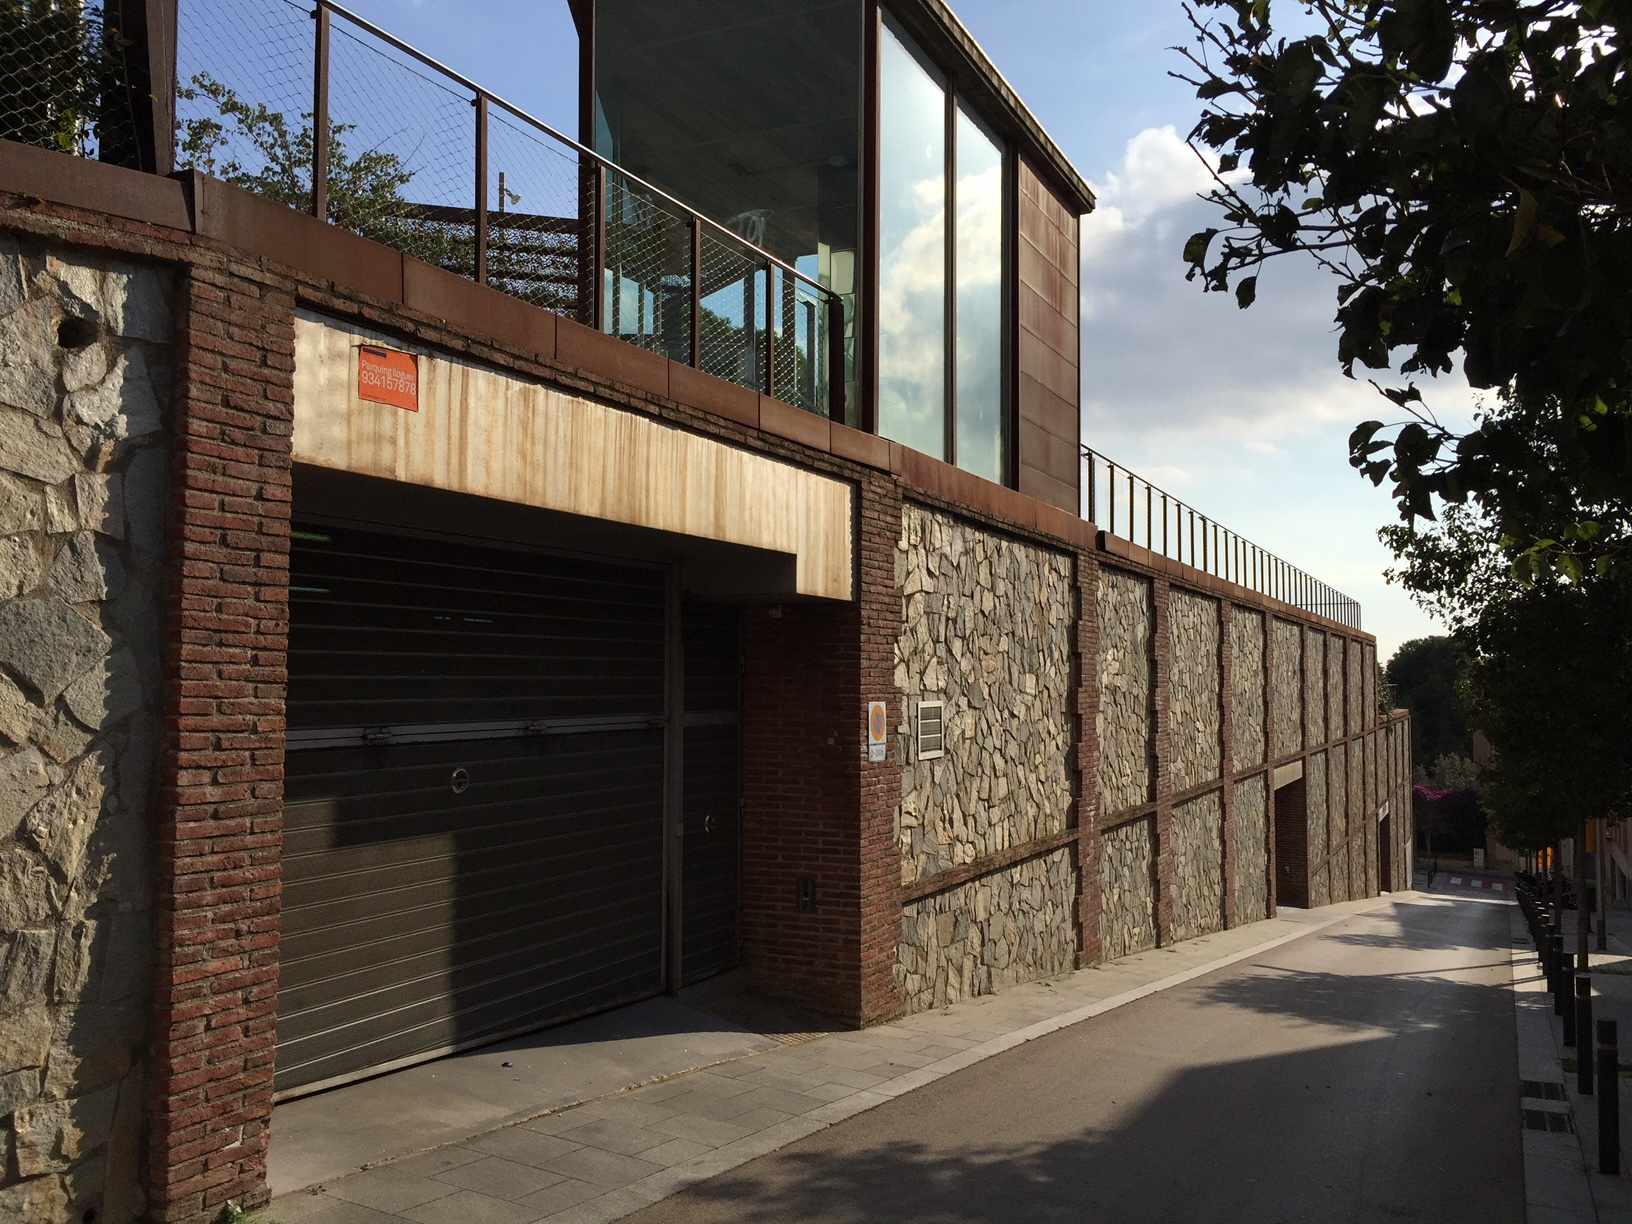
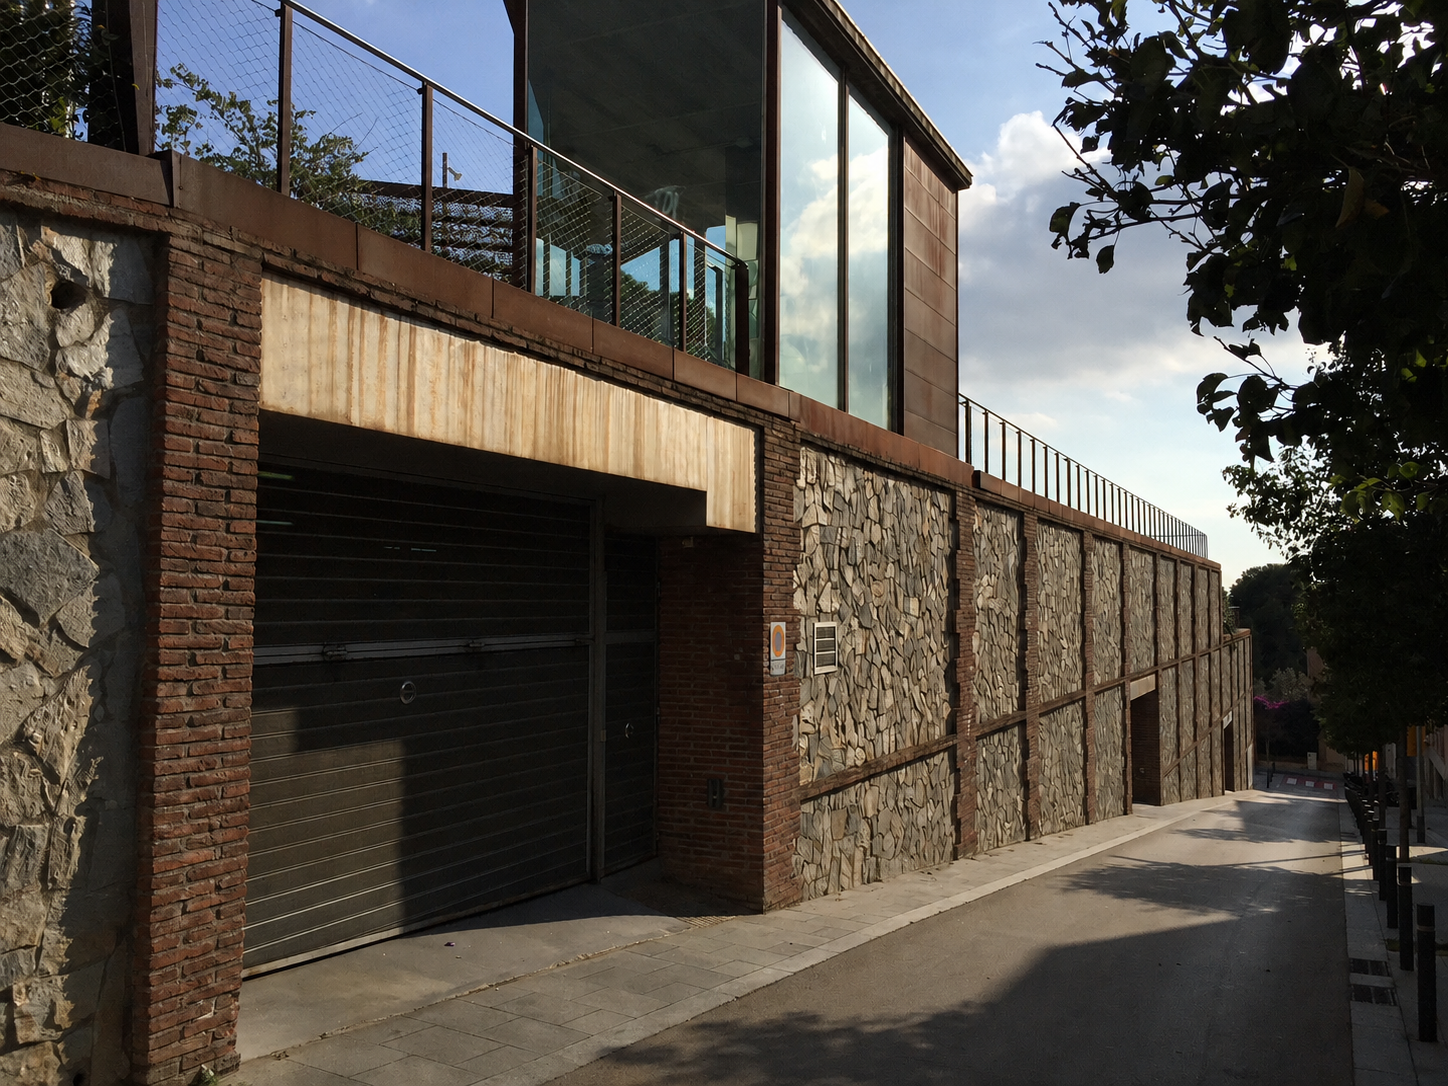
dubtes jose

diff --git a/watchhouse-clone/conceptes/index.html b/watchhouse-clone/conceptes/index.html
@@ -78,7 +78,7 @@
                 </div>
                 <div class="product-guide-step__media">
                   <img
-                    src="../imgs/Enviament 1 2026-05-09/Enviament 1 2025-05-09/CREA Web RESIDENCIAL/2003. Casa LA SELVA/SC Foto web 09.png"
+                    src="../imgs/conceptes_imgs/reutilitzar/2003. Casa LA SELVA/SC Foto web 09.png"
                     loading="eager"
                     class="product-guide-step__image"
                     alt="Casa LA SELVA terrassa">
@@ -89,7 +89,7 @@
               <div class="product-guide-step product-guide-step--image-only">
                 <div class="product-guide-step__media">
                   <img
-                    src="../imgs/Enviament 1 2026-05-09/Enviament 1 2025-05-09/CREA Web RESIDENCIAL/2003. Casa LA SELVA/contrapicat_casa_selva.png"
+                    src="../imgs/conceptes_imgs/reutilitzar/2003. Casa LA SELVA/SC Foto web 03.avif"
                     loading="lazy"
                     class="product-guide-step__image"
                     alt="Casa LA SELVA detall">
@@ -220,10 +220,10 @@
                 </div>
                 <div class="product-guide-step__media">
                   <img
-                    src="../imgs/Enviament 1 2026-05-09/Enviament 1 2025-05-09/CREA Web RESIDENCIAL/2003. Casa VALLDOREIX/step4_interior_valldoreix_1.png"
+                    src="../imgs/conceptes_imgs/rehabilitar/2003. Casa VALLDOREIX/Valldoreix foto 6_JPG.avif"
                     loading="lazy" class="product-guide-step__image" alt="Interior Valldoreix, balcó">
                   <img
-                    src="../imgs/Enviament 1 2026-05-09/Enviament 1 2025-05-09/CREA Web RESIDENCIAL/2003. Casa VALLDOREIX/step4_interior_valldoreix_2.png"
+                    src="../imgs/conceptes_imgs/rehabilitar/2003. Casa VALLDOREIX/Valldoreix foto 7_JPG.avif"
                     loading="lazy" class="product-guide-step__image" alt="Interior Valldoreix, escala i coberta">
                 </div>
               </div>
@@ -233,10 +233,10 @@
                    style="--sum-ratio: 1.6; --img-h: 52vh;">
                 <div class="product-guide-step__media">
                   <img
-                    src="../imgs/Enviament 1 2026-05-09/Enviament 1 2025-05-09/CREA Web RESIDENCIAL/2003. Casa VALLDOREIX/torre_despres.png"
+                    src="../imgs/conceptes_imgs/rehabilitar/2003. Casa VALLDOREIX/torre_despres.png"
                     loading="lazy" class="product-guide-step__image" alt="Torre després de la reforma">
                   <img
-                    src="../imgs/Enviament 1 2026-05-09/Enviament 1 2025-05-09/CREA Web RESIDENCIAL/2003. Casa VALLDOREIX/torre abans.png"
+                    src="../imgs/conceptes_imgs/rehabilitar/2003. Casa VALLDOREIX/torre abans.png"
                     loading="lazy" class="product-guide-step__image" alt="Torre abans de la reforma">
                 </div>
               </div>
@@ -251,10 +251,10 @@
                 </div>
                 <div class="product-guide-step__media">
                   <img
-                    src="../imgs/Enviament 1 2026-05-09/Enviament 1 2025-05-09/CREA Web RESIDENCIAL/2003. Casa VALLDOREIX/fachada_despres.png"
+                    src="../imgs/conceptes_imgs/rehabilitar/2003. Casa VALLDOREIX/fachada_despres.png"
                     loading="lazy" class="product-guide-step__image" alt="Façana després de la reforma">
                   <img
-                    src="../imgs/Enviament 1 2026-05-09/Enviament 1 2025-05-09/CREA Web RESIDENCIAL/2003. Casa VALLDOREIX/fachada_abans.png"
+                    src="../imgs/conceptes_imgs/rehabilitar/2003. Casa VALLDOREIX/fachada_abans.png"
                     loading="lazy" class="product-guide-step__image" alt="Façana abans de la reforma">
                 </div>
               </div>
@@ -270,10 +270,10 @@
                 </div>
                 <div class="product-guide-step__media">
                   <img
-                    src="../imgs/Enviament 1 2026-05-09/Enviament 1 2025-05-09/CREA Web RESIDENCIAL/2003. Casa VALLDOREIX/front_valldoreix.png"
+                    src="../imgs/conceptes_imgs/rehabilitar/2003. Casa VALLDOREIX/front_valldoreix.png"
                     loading="eager" class="product-guide-step__image" alt="Casa Valldoreix façana frontal">
                   <img
-                    src="../imgs/Enviament 1 2026-05-09/Enviament 1 2025-05-09/CREA Web RESIDENCIAL/2003. Casa VALLDOREIX/inside_peak_valldoreix.png"
+                    src="../imgs/conceptes_imgs/rehabilitar/2003. Casa VALLDOREIX/inside_peak_valldoreix.png"
                     loading="eager" class="product-guide-step__image" alt="Casa Valldoreix interior, doble espai">
                 </div>
               </div>
@@ -292,7 +292,7 @@
                 </div>
                    <div class="product-guide-step__media">
                   <img
-                    src="../imgs/Enviament 1 2026-05-09/Enviament 1 2025-05-09/CREA Web RESIDENCIAL/2019. Reforma HOMER/general_homero_2.png"
+                    src="../imgs/conceptes_imgs/rehabilitar/2019. Reforma HOMER/Ho13 Fotos 2022-06-09 Fotos Óscar (8).JPG"
                     loading="lazy" class="product-guide-step__image" alt="Reforma Homero, mur de maó vist">
                 </div>
               </div>
@@ -306,10 +306,10 @@
                 </div>
                 <div class="product-guide-step__media">
                   <img
-                    src="../imgs/Enviament 1 2026-05-09/Enviament 1 2025-05-09/CREA Web RESIDENCIAL/2019. Reforma HOMER/cuina_homer_1.png"
+                    src="../imgs/conceptes_imgs/rehabilitar/2019. Reforma HOMER/Ho13 Fotos 2022-06-09 Fotos Óscar (5).JPG"
                     loading="lazy" class="product-guide-step__image" alt="Reforma Homero, cuina">
                   <img
-                    src="../imgs/Enviament 1 2026-05-09/Enviament 1 2025-05-09/CREA Web RESIDENCIAL/2019. Reforma HOMER/cuina_homer_3.png"
+                    src="../imgs/conceptes_imgs/rehabilitar/2019. Reforma HOMER/Ho13 Fotos 2022-06-09 Fotos Óscar (6).JPG"
                     loading="lazy" class="product-guide-step__image" alt="Reforma Homero, cuina detall">
                 </div>
               </div>
@@ -324,7 +324,7 @@
                 </div>
                 <div class="product-guide-step__media">
                   <img
-                    src="../imgs/Enviament 1 2026-05-09/Enviament 1 2025-05-09/CREA Web RESIDENCIAL/2019. Reforma HOMER/general_homer_1.png"
+                    src="../imgs/conceptes_imgs/rehabilitar/2019. Reforma HOMER/Ho13 Fotos 2022-06-09 Fotos Óscar (1).JPG"
                     loading="eager" class="product-guide-step__image" alt="Reforma Homero, vista general">
                 </div>
               </div>

diff --git a/watchhouse-clone/home/home.js b/watchhouse-clone/home/home.js
@@ -6,11 +6,27 @@
   const slides = Array.from(section.querySelectorAll('[data-hero-slide]'));
   const thumbs = Array.from(section.querySelectorAll('[data-hero-thumb]'));
   const bullets = Array.from(section.querySelectorAll('[data-hero-go-to]'));
-  const interval = 6000;
+  const interval = 4000;
   let activeIndex = 0;
   let startedAt = performance.now();
   let isPaused = false;
+  let pausedAt = null;
   let rafId = null;
+
+  const pause = () => {
+    if (!isPaused) {
+      isPaused = true;
+      pausedAt = performance.now();
+    }
+  };
+
+  const resume = () => {
+    if (isPaused && pausedAt !== null) {
+      startedAt += performance.now() - pausedAt;
+      pausedAt = null;
+    }
+    isPaused = false;
+  };
 
   const setActive = (index) => {
     activeIndex = (index + slides.length) % slides.length;
@@ -61,18 +77,16 @@
 
   thumbs.forEach((thumb) => {
     thumb.addEventListener('mouseenter', () => {
-      setActive(Number(thumb.dataset.index0));
-      isPaused = true;
+      pause();
     });
   });
 
   section.addEventListener('mouseenter', () => {
-    isPaused = true;
+    pause();
   });
 
   section.addEventListener('mouseleave', () => {
-    isPaused = false;
-    startedAt = performance.now();
+    resume();
   });
 
   setActive(0);

diff --git a/watchhouse-clone/nosaltres/index.html b/watchhouse-clone/nosaltres/index.html
@@ -11,6 +11,7 @@
     <script defer src="../shared/site.js"></script>
     <script defer src="nosaltres.js"></script>
   </head>
+
   <body class="template-page template-about">
     <a class="visually-hidden" href="#MainContent">Anar al contingut</a>
     <header id="site-header" class="main-header">
